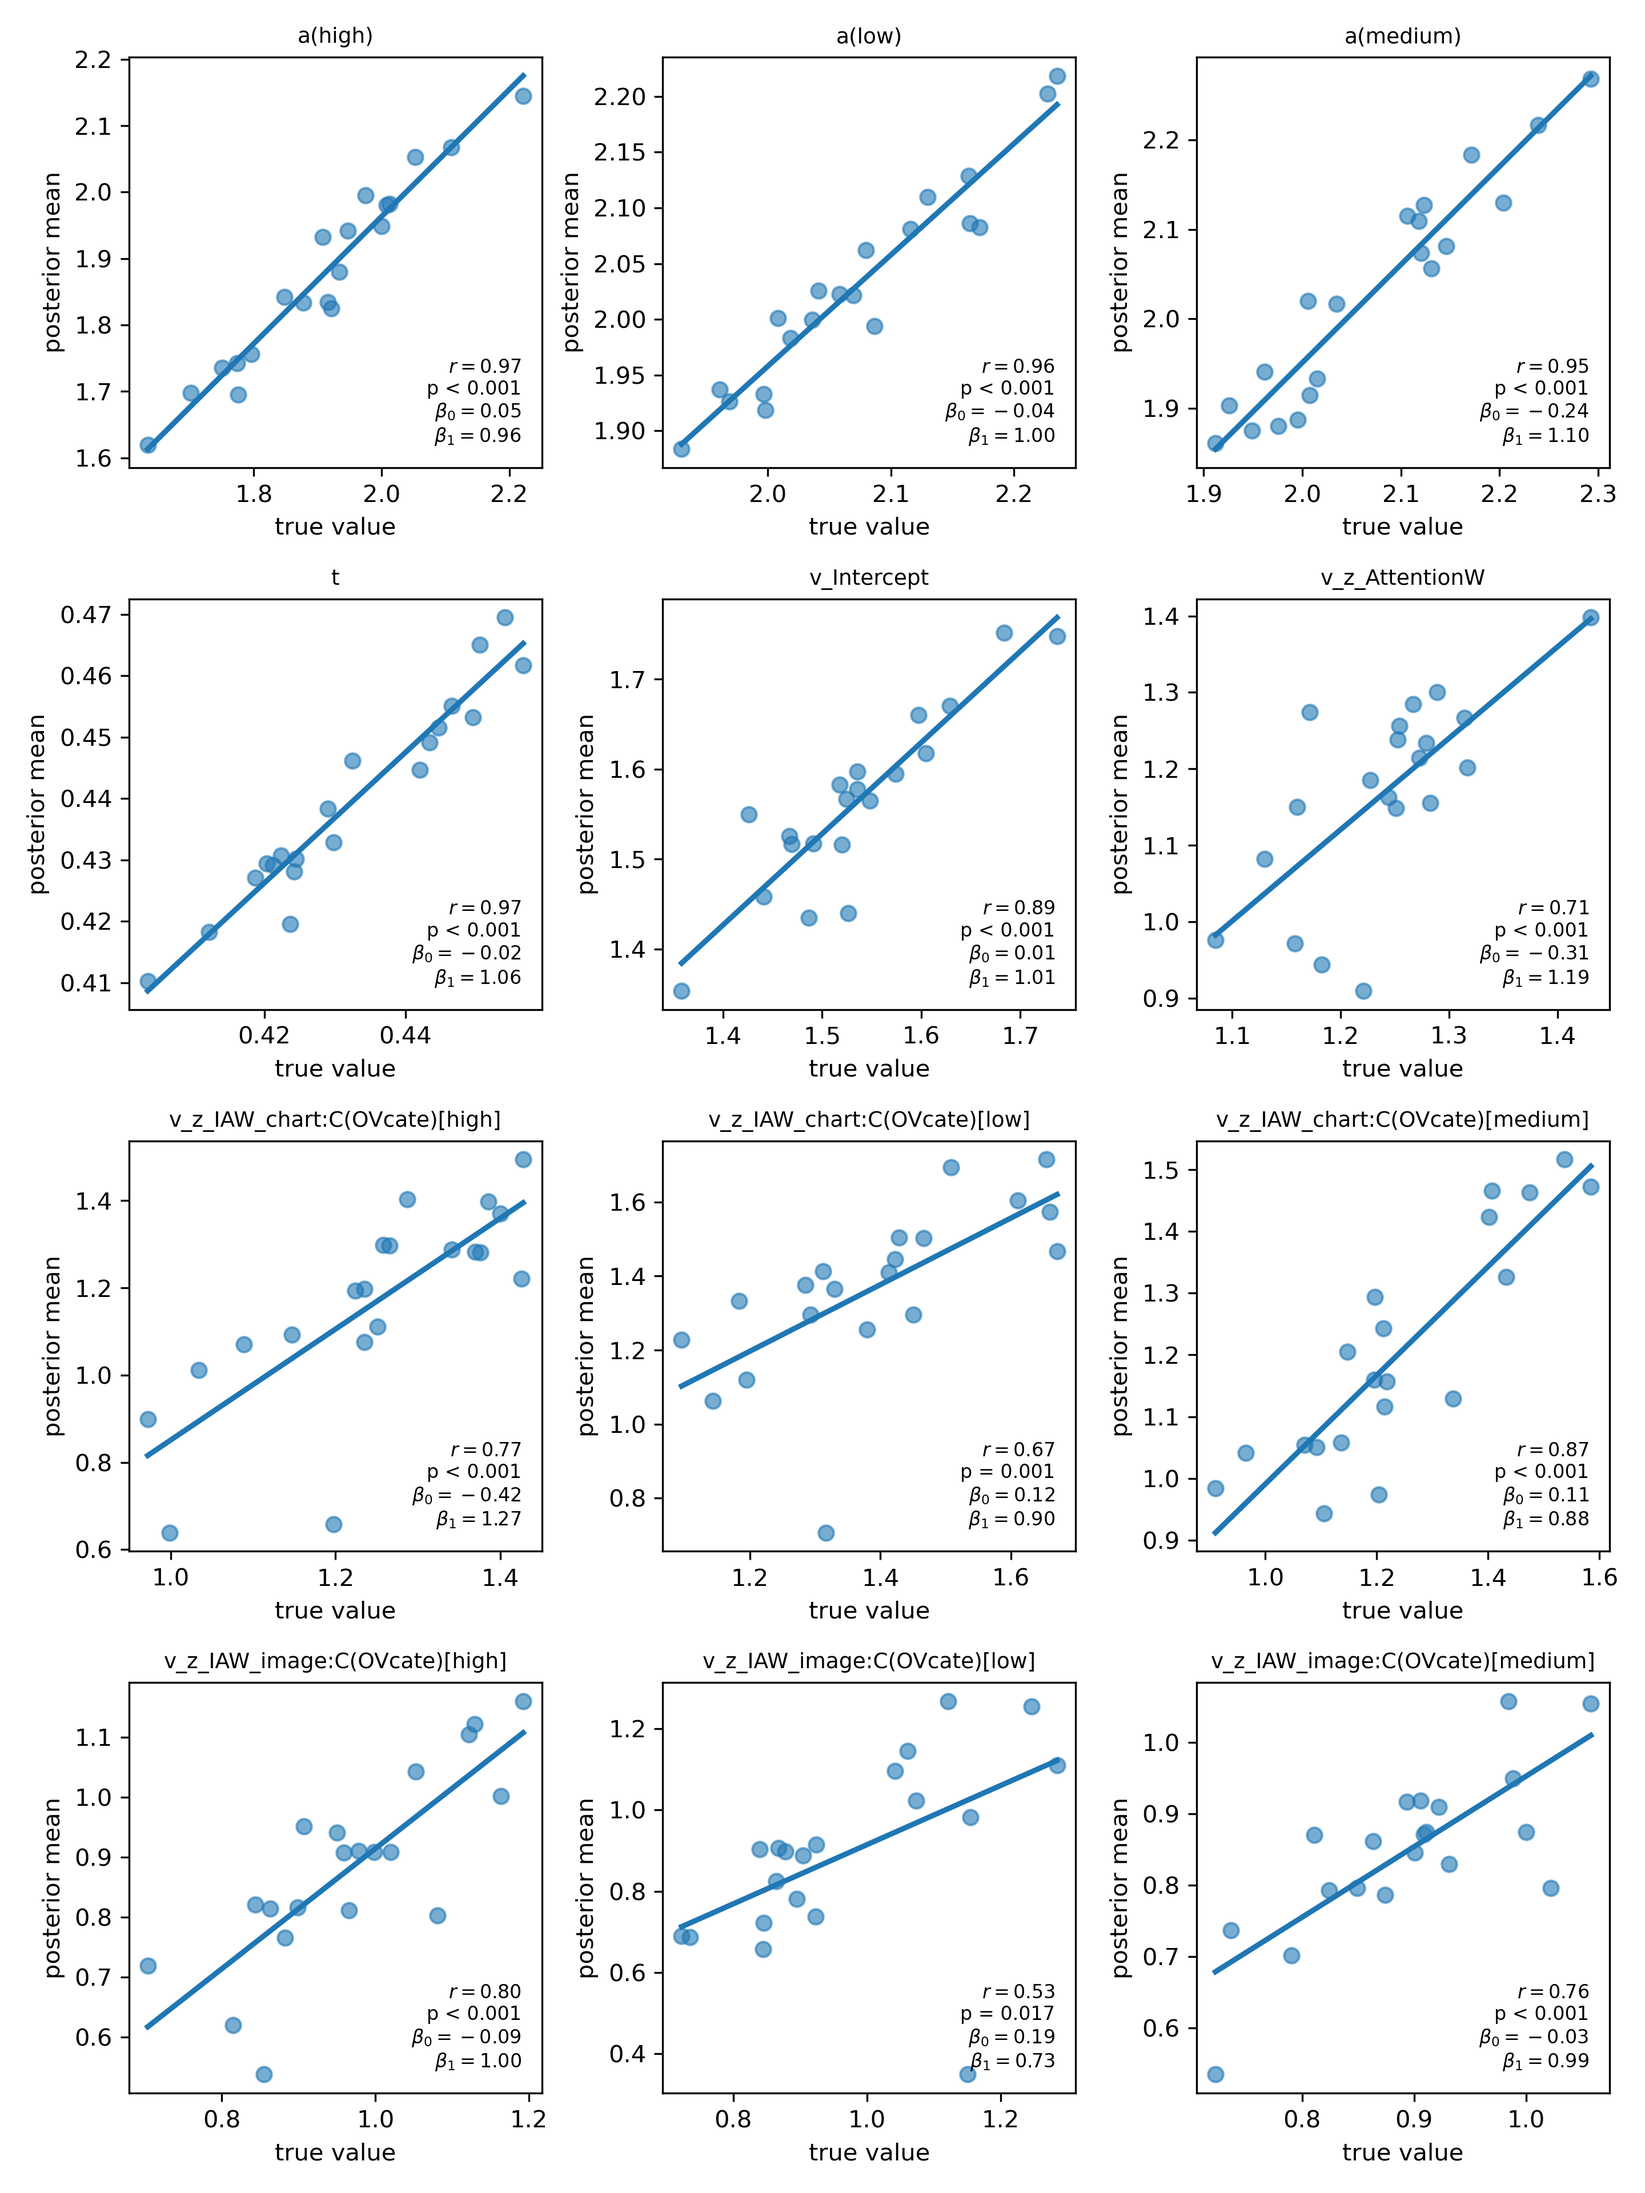
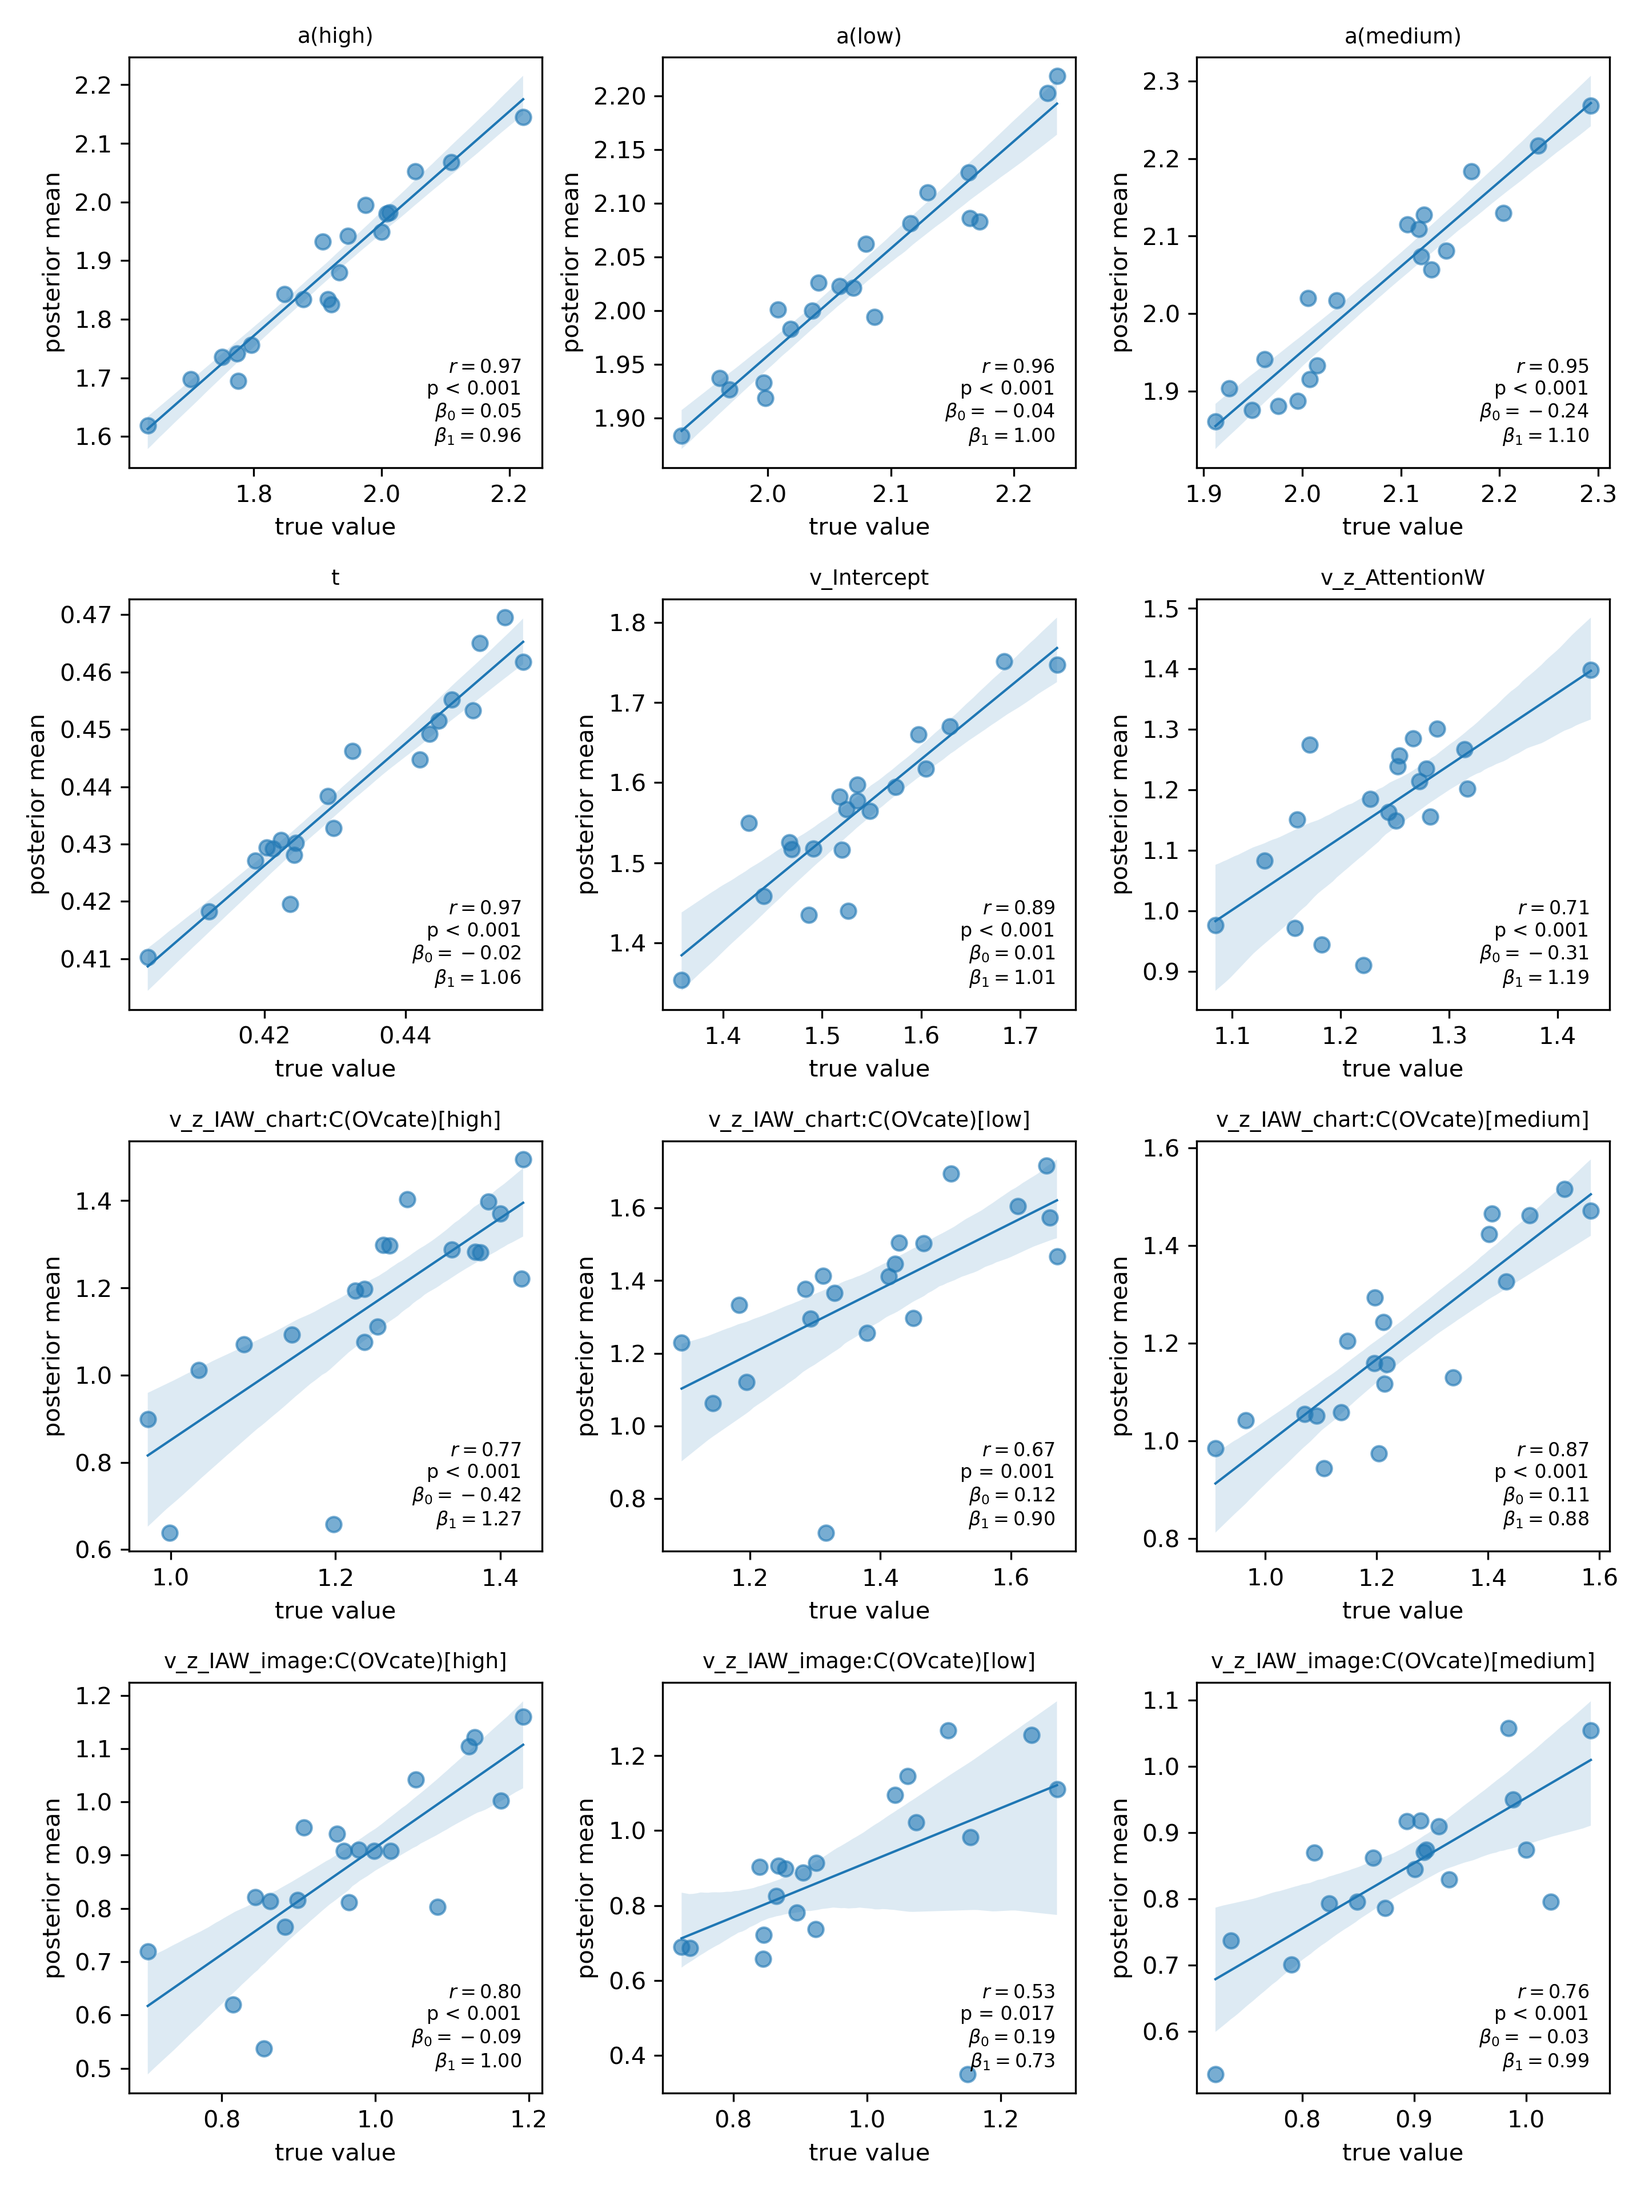
...

diff --git a/group_param_rec.py b/group_param_rec.py
@@ -19,13 +19,13 @@ warnings.filterwarnings("ignore", category=FutureWarning)
 # ---------------- configuration -----------------------------------------
 PROJECT_DIR   = Path(os.getenv("PROJECT_DIR", "/workspace")).resolve()
 BASE_MODEL_DIR = PROJECT_DIR / "models_dir_garcia"
-FIG_DIR        = PROJECT_DIR / "figures_dir_garcia/recovery_ES31"
+FIG_DIR        = PROJECT_DIR / "figures_dir_garcia/recovery_ES30"
 FIG_DIR.mkdir(parents=True, exist_ok=True)
 
 EMPIRICAL_POST_PATHS = [                        # chains from your first fit
-    BASE_MODEL_DIR / "garcia_replication_ES_31_0.nc",
-    BASE_MODEL_DIR / "garcia_replication_ES_31_1.nc",
-    BASE_MODEL_DIR / "garcia_replication_ES_31_2.nc",
+    BASE_MODEL_DIR / "garcia_replication_ES_30_0.nc",
+    BASE_MODEL_DIR / "garcia_replication_ES_30_1.nc",
+    BASE_MODEL_DIR / "garcia_replication_ES_30_2.nc",
 ]
 
 N_REPS    = 20        # raise later (≥ 500) when everything is stable
@@ -37,16 +37,15 @@ PARAM_LIST = [       # parameters that **exist only at the group level**
     "a(low)", "a(medium)", "a(high)",
     "v_Intercept",
     "v_z_AttentionW",
-    "v_z_IAW_chart:C(OVcate)[low]",
-    "v_z_IAW_chart:C(OVcate)[medium]",
-    "v_z_IAW_chart:C(OVcate)[high]",
-    "v_z_IAW_image:C(OVcate)[low]",
-    "v_z_IAW_image:C(OVcate)[medium]",
-    "v_z_IAW_image:C(OVcate)[high]",
+    "v_z_IAW_chart",
+    "v_z_IAW_image",
+    "v_z_Attention:C(OVcate)[low]",
+    "v_z_Attention:C(OVcate)[medium]",
+    "v_z_Attention:C(OVcate)[high]",
 ]
 
 # ------------ HDDM model specification ---------------------------------
-v_reg     = {'model': 'v ~ 1 + z_AttentionW + z_IAW_chart:C(OVcate) + z_IAW_image:C(OVcate)',
+v_reg     = {'model': 'v ~ 1 + z_AttentionW:C(OVcate) + z_IAW_chart + z_IAW_image',
              'link_func': lambda x: x}
 reg_descr  = [v_reg]
 depends_on = {'a': 'OVcate'}
@@ -68,9 +67,9 @@ def simulate_dataset(true_pars, raw_df):
         a_val   = true_pars[f"a({ov})"]
 
         v_trial = (true_pars["v_Intercept"]
-                   + true_pars["v_z_AttentionW"]                 * tr["z_AttentionW"]
-                   + true_pars[f"v_z_IAW_chart:C(OVcate)[{ov}]"] * tr["z_IAW_chart"]
-                   + true_pars[f"v_z_IAW_image:C(OVcate)[{ov}]"] * tr["z_IAW_image"])
+                   + true_pars[f"v_z_AttentionW:C(OVcate)[{ov}]"] * tr["z_AttentionW"]
+                   + true_pars["v_z_IAW_chart"] * tr["z_IAW_chart"]
+                   + true_pars["v_z_IAW_image"] * tr["z_IAW_image"])
 
         trial_df, _ = hddm.generate.gen_rand_data(
             {"v": v_trial, "a": a_val, "t": true_pars["t"]},
@@ -128,13 +127,13 @@ for rep in trange(N_REPS, desc="parameter-recovery", unit="rep"):
                             true=θ_true[p], recovered=θ_hat[p]))
             
     if (rep+1) % 1 == 0:         # every rep 
-        pd.DataFrame(records).to_csv(FIG_DIR / "partial_results2.csv",
+        pd.DataFrame(records).to_csv(FIG_DIR / "partial_results.csv",
                                      index=False)
 
 
 # ---------- save & plot ------------------------------------------------
 results = pd.DataFrame(records)
-results.to_csv(FIG_DIR / "true_vs_recovered_ES31_2.csv", index=False)
+results.to_csv(FIG_DIR / "true_vs_recovered_ES30.csv", index=False)
 
 sns.set_style("white")
 g = sns.FacetGrid(results, col="parameter", col_wrap=3,
@@ -147,10 +146,10 @@ for ax in g.axes.ravel():
     ax.set_xlim(lo, hi); ax.set_ylim(lo, hi)
 g.set_axis_labels("true value", "posterior mean (recovered)")
 g.tight_layout()
-png_out = FIG_DIR / "scatter_ES31_2.png"
+png_out = FIG_DIR / "scatter_ES30.png"
 g.savefig(png_out, dpi=300)
 
-print(f"Done.  CSV → {FIG_DIR/'true_vs_recovered_ES31_2.csv'}")
+print(f"Done.  CSV → {FIG_DIR/'true_vs_recovered_ES30.csv'}")
 print(f"           PNG → {png_out}")
 
 

diff --git a/figures_dir_garcia/macleod_cluster_out/garcia_replication_ES_31/recovery_ES31/reg_plot.py b/figures_dir_garcia/macleod_cluster_out/garcia_replication_ES_31/recovery_ES31/reg_plot.py
@@ -11,7 +11,6 @@ import statsmodels.api as sm
 BASE_DIR = Path(r"C:\Cluster_Github\HDDM_Vero\figures_dir_garcia"
                 r"\macleod_cluster_out\garcia_replication_ES_31"
                 r"\recovery_ES31")
-
 CSV_PATH     = BASE_DIR / "true_vs_recovered_ES31_2.csv"
 OUT_FIG_PATH = BASE_DIR / "regplot_true_vs_recovered_2.png"
 
@@ -23,20 +22,21 @@ def regplot_with_corr(data, x="true", y="recovered",
     """Scatter + OLS line + r / p / β-coeff annotations."""
     if ax is None:
         ax = plt.gca()
-
     annot_kwargs   = annot_kwargs or dict(fontsize=8, xy=(0.95, 0.05),
                                           ha="right", va="bottom")
     scatter_kwargs = scatter_kwargs or dict(s=40, alpha=.6)
 
     # scatter and OLS line
-    sns.regplot(data=data, x=x, y=y, ci=None,
-                scatter_kws=scatter_kwargs, ax=ax)
-
-    # stats
+    sns.regplot(data=data,
+                x=x,
+                y=y,
+                ci=95,
+                scatter_kws=scatter_kwargs,
+                line_kws={"linewidth": 1.0},
+                ax=ax)
     r, p = pearsonr(data[x], data[y])
     X    = sm.add_constant(data[x])
     β0, β1 = sm.OLS(data[y], X).fit().params
-
     annot = (f"$r={r:.2f}$\n"
              f"{'p < 0.001' if p < .001 else f'p = {p:.3f}'}\n"
              f"$\\beta_0={β0:.2f}$\n$\\beta_1={β1:.2f}$")
@@ -45,29 +45,22 @@ def regplot_with_corr(data, x="true", y="recovered",
 
 
 def main() -> None:
-
     if not CSV_PATH.exists():
         raise FileNotFoundError(f"CSV not found: {CSV_PATH}")
-
     df = pd.read_csv(CSV_PATH)
-
     n_par   = df["parameter"].nunique()
     n_cols  = 3
     n_rows  = int(np.ceil(n_par / n_cols))
-
     fig, axes = plt.subplots(n_rows, n_cols,
                              figsize=(n_cols * 3.2, n_rows * 3.2),
                              squeeze=False)
-
     for ax, (par, sub) in zip(axes.ravel(), df.groupby("parameter")):
         regplot_with_corr(sub, ax=ax)
         ax.set_title(par, fontsize=9)
         ax.set_xlabel("true value")
         ax.set_ylabel("posterior mean")
-
     for ax in axes.ravel()[len(df["parameter"].unique()):]:
         ax.axis("off")
-
     fig.tight_layout()
     fig.savefig(OUT_FIG_PATH, dpi=300)
     print(f"✓ regression panels saved → {OUT_FIG_PATH}")
